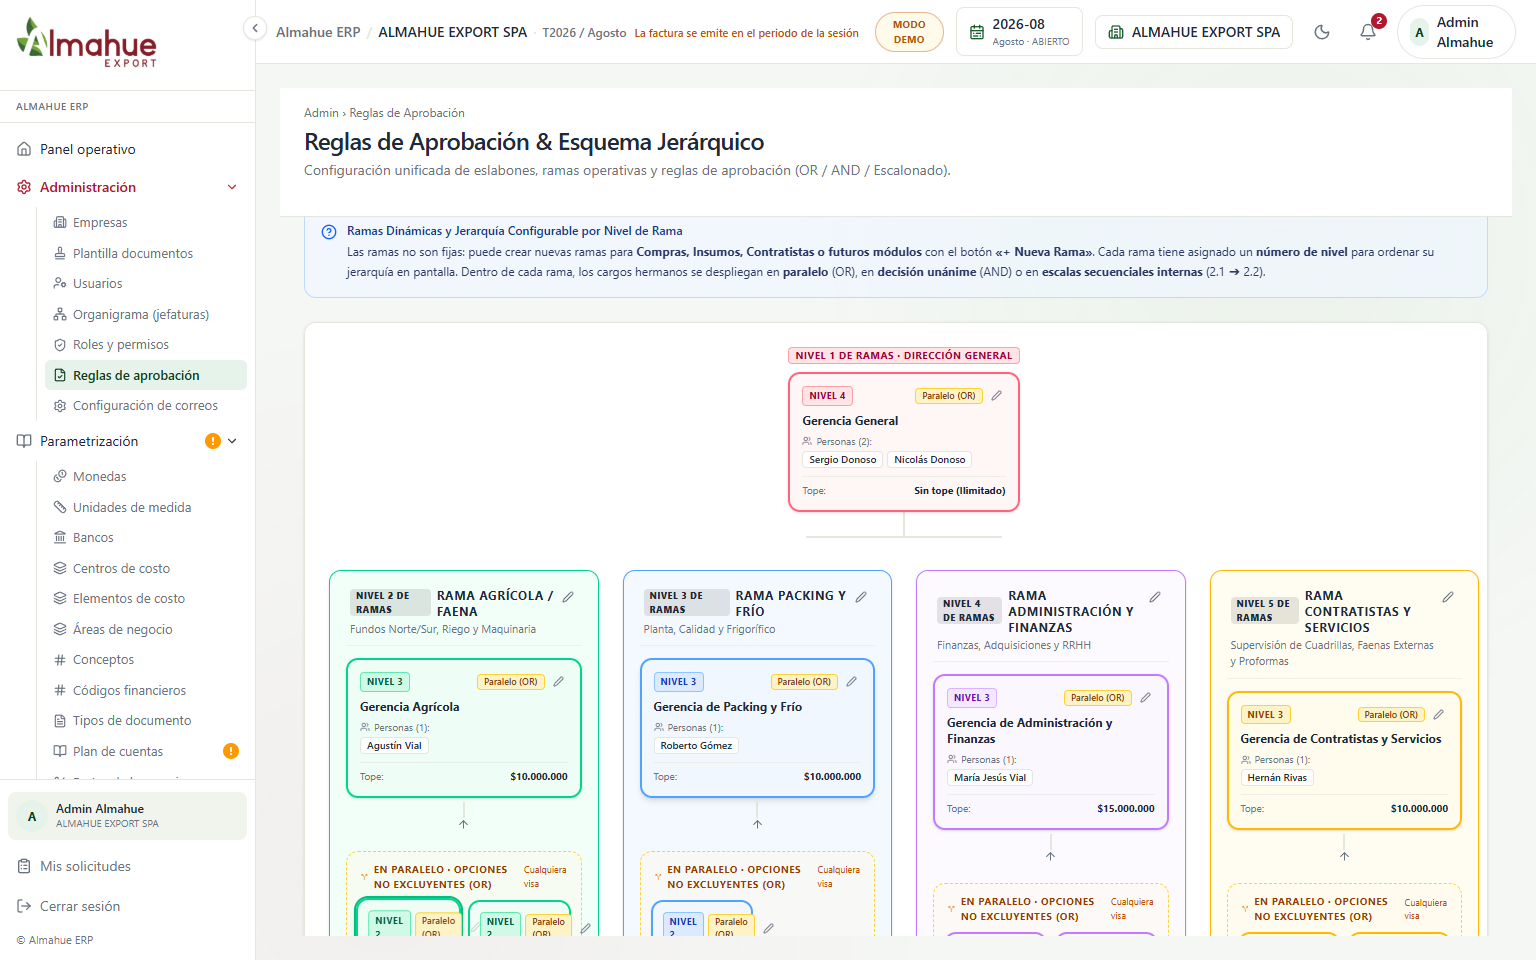
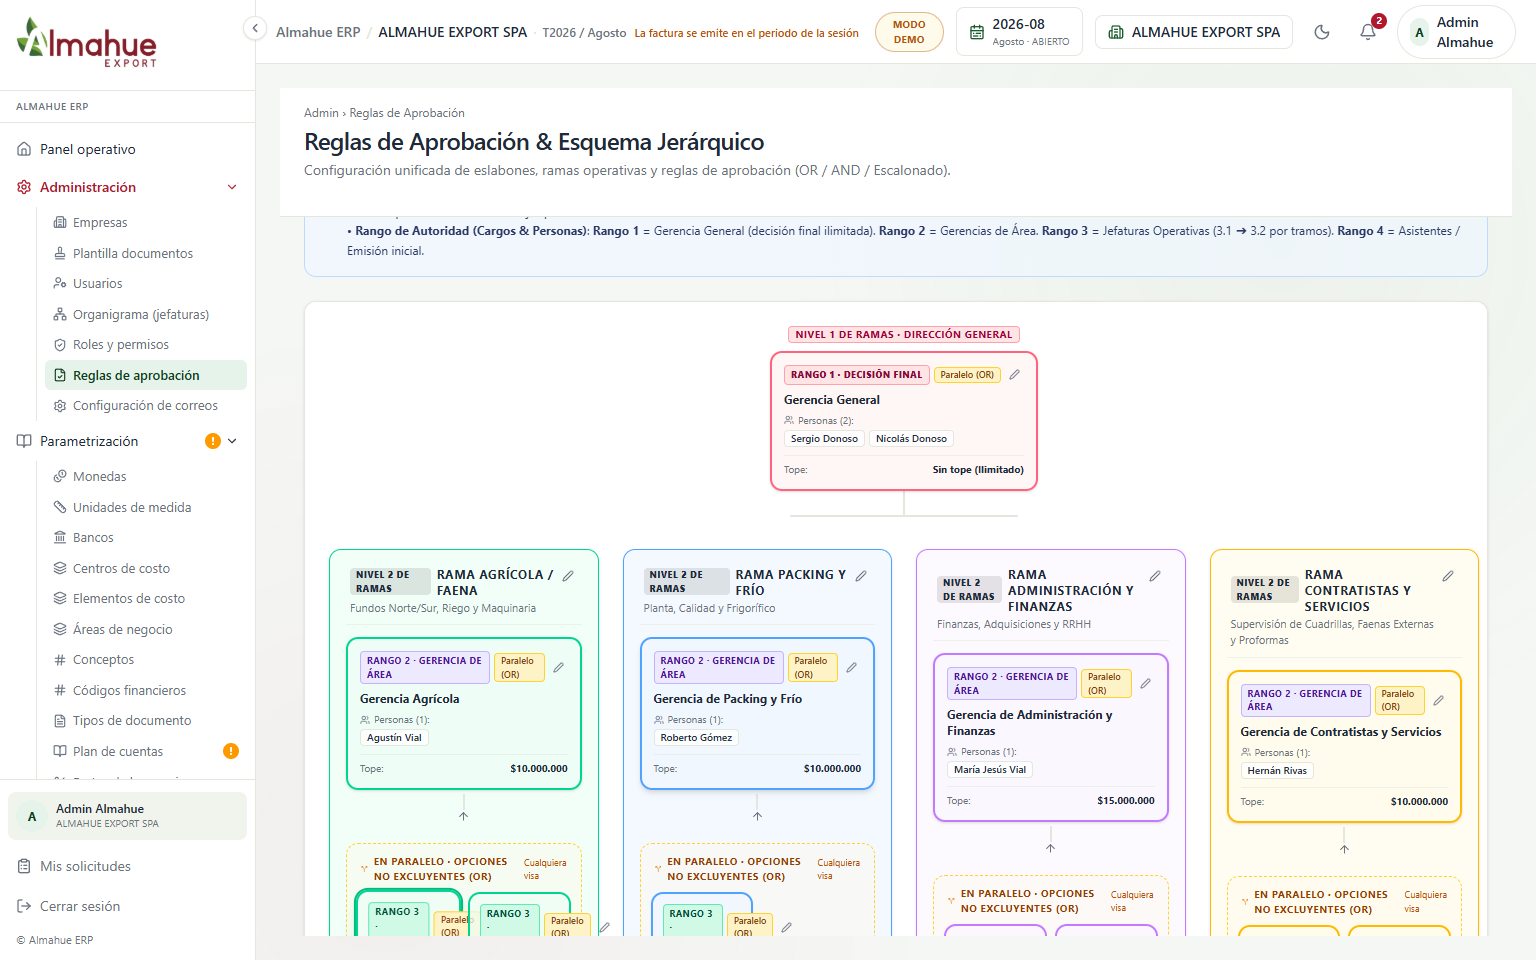
docs(acuerdos): actualizacion de capturas 1536x960, visores y recorrido con unificacion de Rango 1-4 y Nivel de Ramas

diff --git a/docs/sesiones/acuerdos-sala-2026-11-06/comparacion.html b/docs/sesiones/acuerdos-sala-2026-11-06/comparacion.html
@@ -159,7 +159,7 @@
   </section>
 
   <section>
-    <h2>9. Admin - Esquema de Ramas & 3 Modalidades de Aprobación en Paralelo (OR, AND, Escalas 2.1/2.2)</h2>
+    <h2>9. Admin - Esquema de Ramas & 3 Modalidades de Aprobación en Paralelo (OR, AND, Escalas 3.1/3.2)</h2>
     <div class="pair">
       <figure class="antes">
         <figcaption>Antes</figcaption>
@@ -167,10 +167,13 @@
       </figure>
       <figure class="despues">
         <figcaption>Después</figcaption>
-        <img src="despues-esquema-ramas-aprobacion-marcado.png" alt="Esquema de Ramas con Gerencia General en la raíz, cargos en paralelo y 3 modalidades de aprobación (OR, AND, Escalonado)" />
+        <img src="despues-esquema-ramas-aprobacion-marcado.png" alt="Esquema de Ramas con Gerencia General en Rango 1, cargos en paralelo y 3 modalidades de aprobación (OR, AND, Escalonado)" />
       </figure>
     </div>
-    <p class="nota">Se estructura la administración de roles y aprobaciones por ramas (Agrícola, Packing, Administración) con la Gerencia General en el vértice supremo. Los cargos de jefatura (Nivel 2) se despliegan en paralelo horizontalmente (eliminando la falsa cascada vertical). En las reglas de aprobación se configuran libremente 3 modalidades: <strong>1. En Paralelo (OR)</strong> como opciones no excluyentes (Fundos Norte y Sur; cualquiera visa para no frenar faena); <strong>2. Decisión Unánime (AND)</strong> en bloque conjunto vinculante (Planta + Calidad en empaque); y <strong>3. Escalas Secuenciales (2.1 ➔ 2.2)</strong> entre cargos por tramos de monto (Subjefe de Riego 2.1 ➔ Jefe de Riego 2.2) antes de escalar a Gerencia de Área.</p>
+    <p class="nota">Se estructura la administración de roles y aprobaciones mediante dos conceptos unificados donde <strong>el 1 es siempre el valor más importante</strong>:
+    <br>• <strong>Nivel de Rama (Ubicación & Herencia)</strong>: Nivel 1 = Dirección General (vértice supremo). Nivel 2 = Ramas Operativas Principales desplegadas en paralelo horizontal (Agrícola, Packing, Administración, Contratistas). Nivel 3+ = Sub-ramas dependientes ubicadas abajo.
+    <br>• <strong>Rango de Autoridad (Decisión de Personas)</strong>: Rango 1 = Gerencia General (decisión final ilimitada). Rango 2 = Gerencias de Área. Rango 3 = Jefaturas Operativas (3.1 ➔ 3.2 por tramos de monto). Rango 4 = Emisores / Asistentes (solo digitan).
+    <br>En las reglas de aprobación se configuran libremente 3 modalidades: <strong>1. En Paralelo (OR)</strong> como opciones no excluyentes (Fundos Norte y Sur; cualquiera visa para agilizar faena); <strong>2. Decisión Unánime (AND)</strong> en bloque conjunto vinculante (Planta + Calidad en empaque); y <strong>3. Escalas Secuenciales (3.1 ➔ 3.2)</strong> entre cargos por tramos de monto antes de escalar a Gerencia de Área.</p>
   </section>
 
   <section>
@@ -182,14 +185,14 @@
       </figure>
       <figure class="despues">
         <figcaption>Después</figcaption>
-        <img src="despues-usuarios-cargo-arbol-marcado.png" alt="Columna Cargo en Árbol Jerárquico con nivel, rama y topes" />
+        <img src="despues-usuarios-cargo-arbol-marcado.png" alt="Columna Cargo en Árbol Jerárquico con rango, rama y topes" />
       </figure>
     </div>
-    <p class="nota">La grilla de Usuarios incorpora la columna de Cargo en Árbol Jerárquico. En el formulario de alta, el usuario simplemente selecciona su Cargo de la Rama (ej. Jefatura de Campo · Nivel 2), heredando automáticamente sus topes y línea de mando sin requerir configuración manual de grupos.</p>
+    <p class="nota">La grilla de Usuarios incorpora la columna de Cargo en Árbol Jerárquico. En el formulario de alta, el usuario simplemente selecciona su Cargo de la Rama (ej. Jefatura de Campo · Rango 3), heredando automáticamente sus topes y línea de mando sin requerir configuración manual de grupos.</p>
   </section>
 
   <section>
-    <h2>11. Admin - Eslabones Configurables (Nombres, 3 Modalidades de Escala y Personas)</h2>
+    <h2>11. Admin - Eslabones Configurables (Nombres, Rangos 1 a 4, 3 Modalidades de Escala y Personas)</h2>
     <div class="pair">
       <figure class="antes">
         <figcaption>Antes</figcaption>
@@ -197,10 +200,10 @@
       </figure>
       <figure class="despues">
         <figcaption>Después</figcaption>
-        <img src="despues-eslabon-configurar-modal-marcado.png" alt="Modal de configuración con nombre libre, selector de modalidad de aprobación (OR, AND, Escala 2.1), nivel decimal y gestión de personas" />
+        <img src="despues-eslabon-configurar-modal-marcado.png" alt="Modal de configuración con nombre libre, selector de modalidad de aprobación (OR, AND, Escala 3.1/3.2), Rango de Autoridad y gestión de personas" />
       </figure>
     </div>
-    <p class="nota">Los nombres de cada eslabón y cargo no son predefinidos sino 100% configurables por el usuario. El modal permite editar el nombre exacto de la jefatura, código, nivel jerárquico (entero o decimal como 2.1/2.2), la <strong>Modalidad de Aprobación en Reglas</strong> (Paralelo OR, Unánime AND, Escalonado), a qué eslabón superior escala (padre), topes multimoneda y la asignación interactiva de personas al cargo.</p>
+    <p class="nota">Los nombres de cada eslabón y cargo no son predefinidos sino 100% configurables por el usuario. El modal permite editar el nombre exacto de la jefatura, código identificador, el <strong>Rango de Autoridad (Decisión)</strong> (1 = GG, 2 = Gerencia de Área, 3 = Jefatura, 4 = Asistente), la <strong>Modalidad de Aprobación en Reglas</strong> (Paralelo OR, Unánime AND, Escalonado), a qué eslabón superior escala (padre), topes multimoneda y la asignación interactiva de personas al cargo.</p>
   </section>
 
   <section>

diff --git a/docs/sesiones/acuerdos-sala-2026-11-06/recorrido.html b/docs/sesiones/acuerdos-sala-2026-11-06/recorrido.html
@@ -139,33 +139,33 @@
       },
       {
         mod: "Admin", cls: "param",
-        title: "9. Esquema de Ramas & 3 Modalidades en Paralelo",
+        title: "9. Esquema de Ramas & Rango de Autoridad (1 al 4)",
         img: "despues-esquema-ramas-aprobacion.png",
-        alt: "Esquema de Ramas con Gerencia General en la raíz, cargos en paralelo y simulador en vivo",
+        alt: "Esquema de Ramas con Gerencia General en Rango 1, cargos en paralelo y simulador en vivo",
         pins: [
-          { x: 49.5, y: 19.5, t: "Vértice común: Gerencia General", d: "La Gerencia General (Don Sergio y Nicolás) encabeza el árbol jerárquico con tope ilimitado. Toda solicitud que exceda las gerencias de área escala directamente a este nivel." },
-          { x: 28.5, y: 38.0, t: "3 Modalidades en Paralelo (OR, AND, Escala)", d: "Los cargos hermanos se despliegan en paralelo: (1) Paralelo OR como opciones no excluyentes (Fundos Norte y Sur), (2) Decisión Unánime AND en bloque conjunto (Planta y Calidad), y (3) Escalas Secuenciales 2.1 ➔ 2.2 por tramos de monto (Riego) antes de escalar a Gerencia." },
+          { x: 49.5, y: 19.5, t: "Vértice común: Gerencia General (Rango 1)", d: "La Gerencia General (Don Sergio y Nicolás / Natalia Bravo) encabeza el árbol con Rango 1 (Decisión Final Suprema ilimitada). El 1 es siempre el valor más importante." },
+          { x: 28.5, y: 38.0, t: "3 Modalidades en Paralelo (OR, AND, Escala 3.1/3.2)", d: "Los cargos hermanos se despliegan en paralelo: (1) Paralelo OR como opciones no excluyentes (Fundos Norte y Sur), (2) Decisión Unánime AND en bloque conjunto (Planta y Calidad), y (3) Escalas Secuenciales 3.1 ➔ 3.2 por tramos de monto (Riego) antes de escalar a Gerencia de Área (Rango 2)." },
           { x: 49.5, y: 78.5, t: "Simulador de Escalamiento", d: "Permite seleccionar el solicitante y el monto para ver en tiempo real la ruta resuelta: solicitudes menores se aprueban directamente en jefatura sin molestar a gerencias." }
         ]
       },
       {
         mod: "Admin", cls: "param",
-        title: "10. Usuarios con Cargo en Árbol",
+        title: "10. Usuarios con Cargo y Rango de Autoridad",
         img: "despues-usuarios-cargo-arbol.png",
         alt: "Grilla de usuarios con columna Cargo en Árbol Jerárquico",
         pins: [
-          { x: 48.0, y: 35.0, t: "Cargo Jerárquico", d: "Columna que muestra el cargo, nivel y topes de cada usuario en el árbol. Elimina la necesidad de crear grupos artificiales repetitivos." },
+          { x: 48.0, y: 35.0, t: "Cargo Jerárquico y Rango", d: "Columna que muestra el cargo, rango de autoridad (1 a 4) y topes de cada usuario en el árbol. Elimina la necesidad de crear grupos artificiales repetitivos." },
           { x: 88.0, y: 8.5, t: "Nuevo Usuario", d: "Al crear o editar un usuario se selecciona su Rama y Cargo, heredando automáticamente su posición en el árbol y su escala de aprobación." }
         ]
       },
       {
         mod: "Admin", cls: "param",
-        title: "11. Eslabones Configurables & Modalidades",
+        title: "11. Eslabones Configurables & Rangos de Decisión",
         img: "despues-eslabon-configurar-modal.png",
         alt: "Modal para configurar nombres, modalidades de aprobación y personas de cada eslabón",
         pins: [
           { x: 50.0, y: 25.0, t: "Nombre 100% Configurable", d: "El usuario puede escribir el nombre exacto de la jefatura o cargo que utiliza su empresa (ej. Jefatura de Riego, Jefatura Fundos Norte, etc.)." },
-          { x: 50.0, y: 38.0, t: "Modalidad de Aprobación & Nivel Decimal", d: "Permite configurar si el eslabón opera como Opción en Paralelo (OR), Decisión Unánime (AND) o Escala Secuencial (2.1 ➔ 2.2), ingresando niveles enteros o decimales." },
+          { x: 50.0, y: 38.0, t: "Rango de Autoridad & Modalidad", d: "Permite configurar el Rango de Autoridad (1 = GG, 2 = Gerente Área, 3 = Jefatura, 4 = Asistente) donde el 1 es el más importante, y la Modalidad (Paralelo OR, Unánime AND o Escala 3.1/3.2)." },
           { x: 50.0, y: 64.0, t: "Asignación Dinámica de Personas", d: "Permite asociar y desasociar personas directamente al eslabón con topes multimoneda y línea de mando automática." }
         ]
       },
